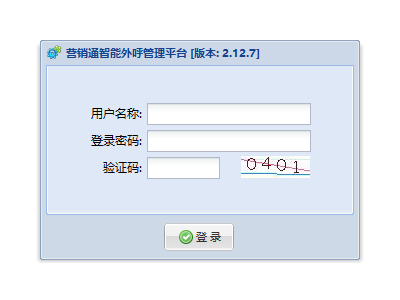
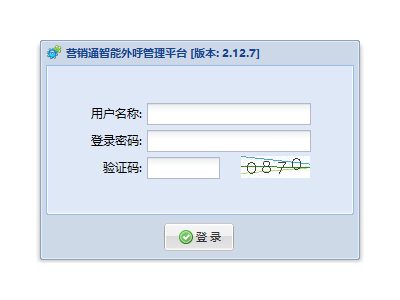
post登陆

Changed region(s): [[0.6, 0.51, 0.78, 0.6]]

diff --git a/test.py b/test.py
@@ -4,6 +4,7 @@ from selenium.webdriver.common.desired_capabilities import DesiredCapabilities
 import requests
 from PIL import Image
 # import random
+import pytesseract
 
 dcap = dict(DesiredCapabilities.PHANTOMJS)
 dcap["phantomjs.page.settings.userAgent"] = (
@@ -16,6 +17,8 @@ driver = webdriver.PhantomJS(
     port=0,
     desired_capabilities=dcap)
 url = "http://59.52.128.92:8000"
+login_url = url + "/Login/login"
+homepage = url+"/Login/index"
 headers = {
     "Accept":
     "text/html,application/xhtml+xml,application/xml;q=0.9,image/webp,*/*;q=0.8",
@@ -32,9 +35,9 @@ login_data = {"userName": "baidujxtgb", "userPwd": "baidujxtgb"}
 driver.get(url)
 try:
     element = WebDriverWait(
-        driver, 10, 0.5).until(lambda x: x.find_element_by_id("ext-gen25").is_displayed())
+        driver, 10, 0.5).until(lambda x: x.find_element_by_id("imgCode").is_displayed())
 finally:
-    print(driver.find_element_by_id("ext-gen25").text)
+    print(driver.find_element_by_id("imgCode").get_attribute("title"))
     # print(driver.page_source)
     cookies = driver.get_cookies()
     print(cookies)
@@ -66,4 +69,15 @@ finally:
     print(box)
     captchaImg = screenshot.crop(box)
     captchaImg.save("captcha.png")
+    verifycode = input("验证码: ")
+    login_data["verifycode"] = verifycode
+    requests.post(login_url, headers, login_data)
+    driver.get(homepage)
+    print(driver.page_source)
+    try:
+        element = WebDriverWait(
+            driver, 10, 0.5).until(
+                lambda x: x.find_element_by_id("ext-gen62").is_displayed())
+    finally:
+        print(driver.find_element_by_id("ext-gen62").text)
     driver.close()

diff --git a/temp.py b/temp.py
@@ -1,0 +1,6 @@
+from PIL import Image
+import pytesseract
+
+verifycode = Image.open("captcha.png")
+code = pytesseract.image_to_string(verifycode)
+print(code)
